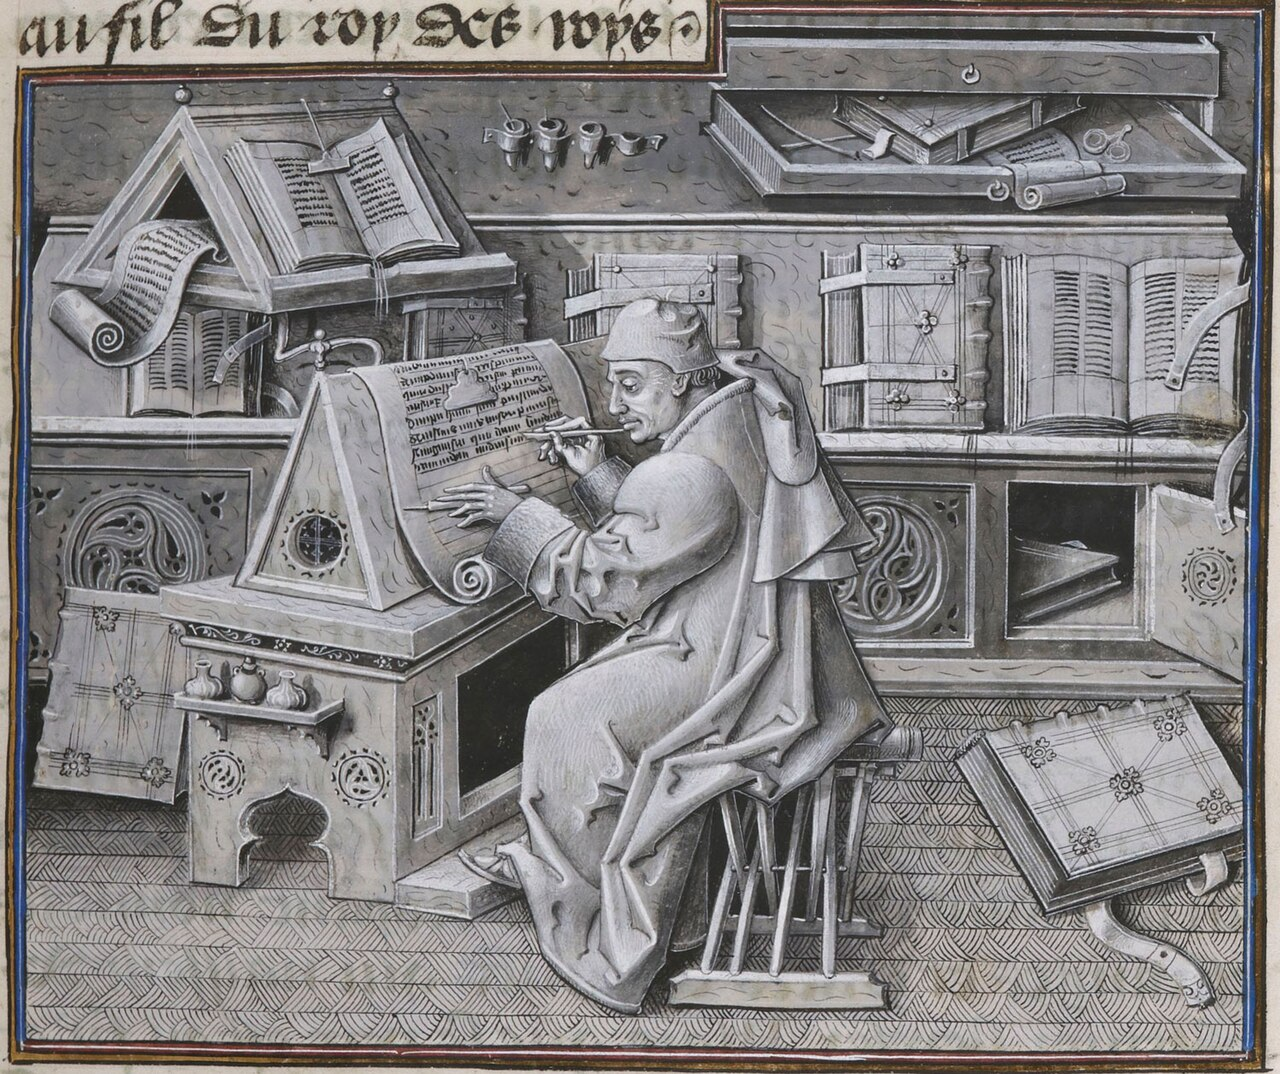
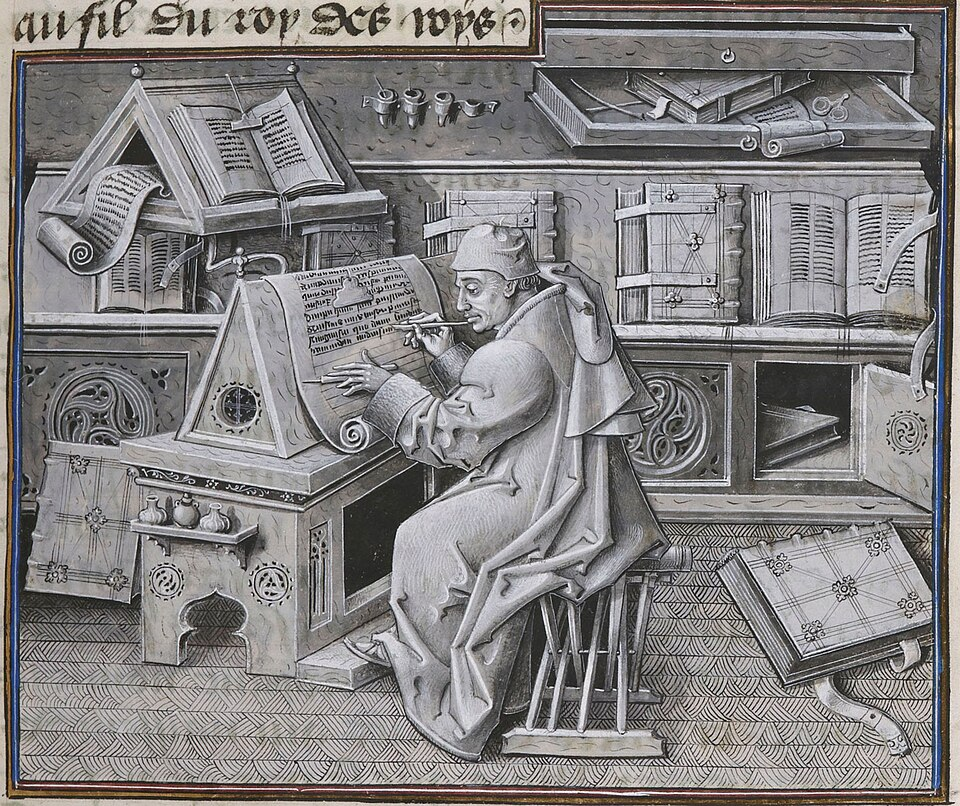
Home: imagem menor

Changed region(s): [[0.0, 0.0, 1.0, 1.0], [0.75, 0.062, 0.7812, 0.0931], [0.5312, 0.6824, 0.5625, 0.7134]]

diff --git a/assets/style.css b/assets/style.css
@@ -67,9 +67,9 @@ a { color: var(--text); text-decoration: underline; text-decoration-thickness: 1
 a:hover { color: var(--muted); }
 
 /* Imagem da home */
-.hero { margin: 0 0 3rem; }
+.hero { margin: 0 0 2.5rem; max-width: 300px; }
 .hero img { display: block; width: 100%; height: auto; border-radius: 4px; }
-.hero figcaption { font-family: var(--sans); font-size: 0.85rem; color: var(--muted); margin-top: 0.5rem; text-align: center; }
+.hero figcaption { font-family: var(--sans); font-size: 0.8rem; color: var(--muted); margin-top: 0.5rem; }
 @media (prefers-color-scheme: dark) { .hero img { filter: brightness(0.85); } }
 
 /* Lista de posts */

diff --git a/index.html b/index.html
@@ -4,7 +4,7 @@ body_class: listing
 ---
 <main>
     <figure class="hero">
-        <img src="{{ '/assets/img/monge-escriba.jpg' | relative_url }}" width="1280" height="1074"
+        <img src="{{ '/assets/img/monge-escriba.jpg' | relative_url }}" width="960" height="806"
              alt="Iluminura medieval em tons de cinza: um escriba de manto e capuz escreve num pergaminho apoiado numa estante inclinada, cercado de livros, rolos e tinteiros.">
         <figcaption>Jean Miélot em seu scriptorium, por Jean Le Tavernier, c. 1456</figcaption>
     </figure>
